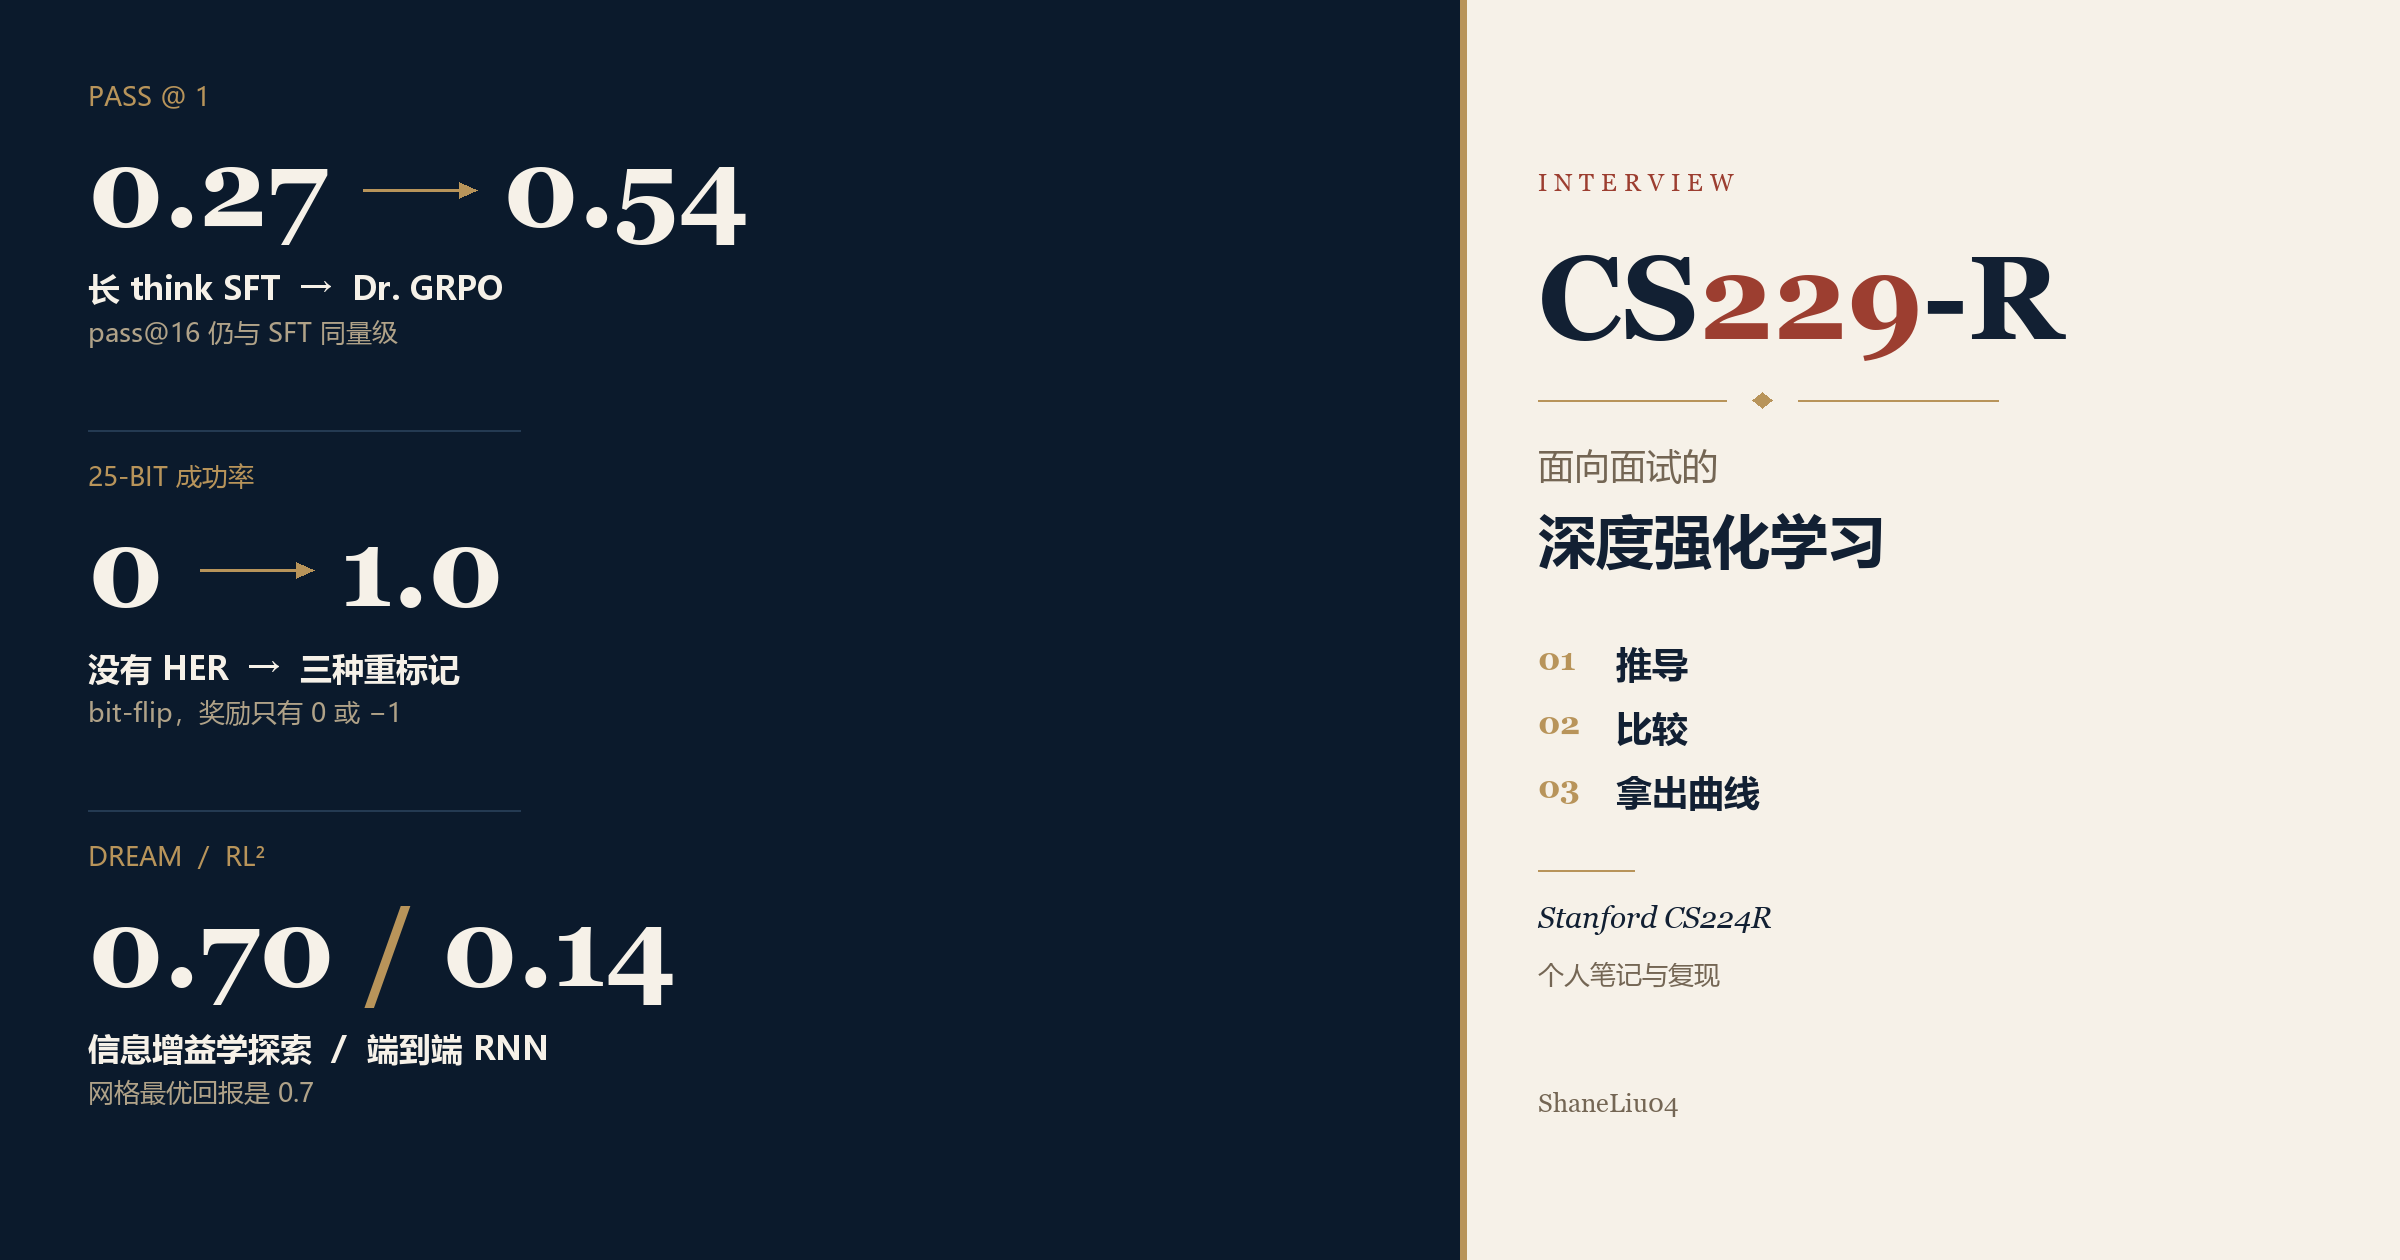
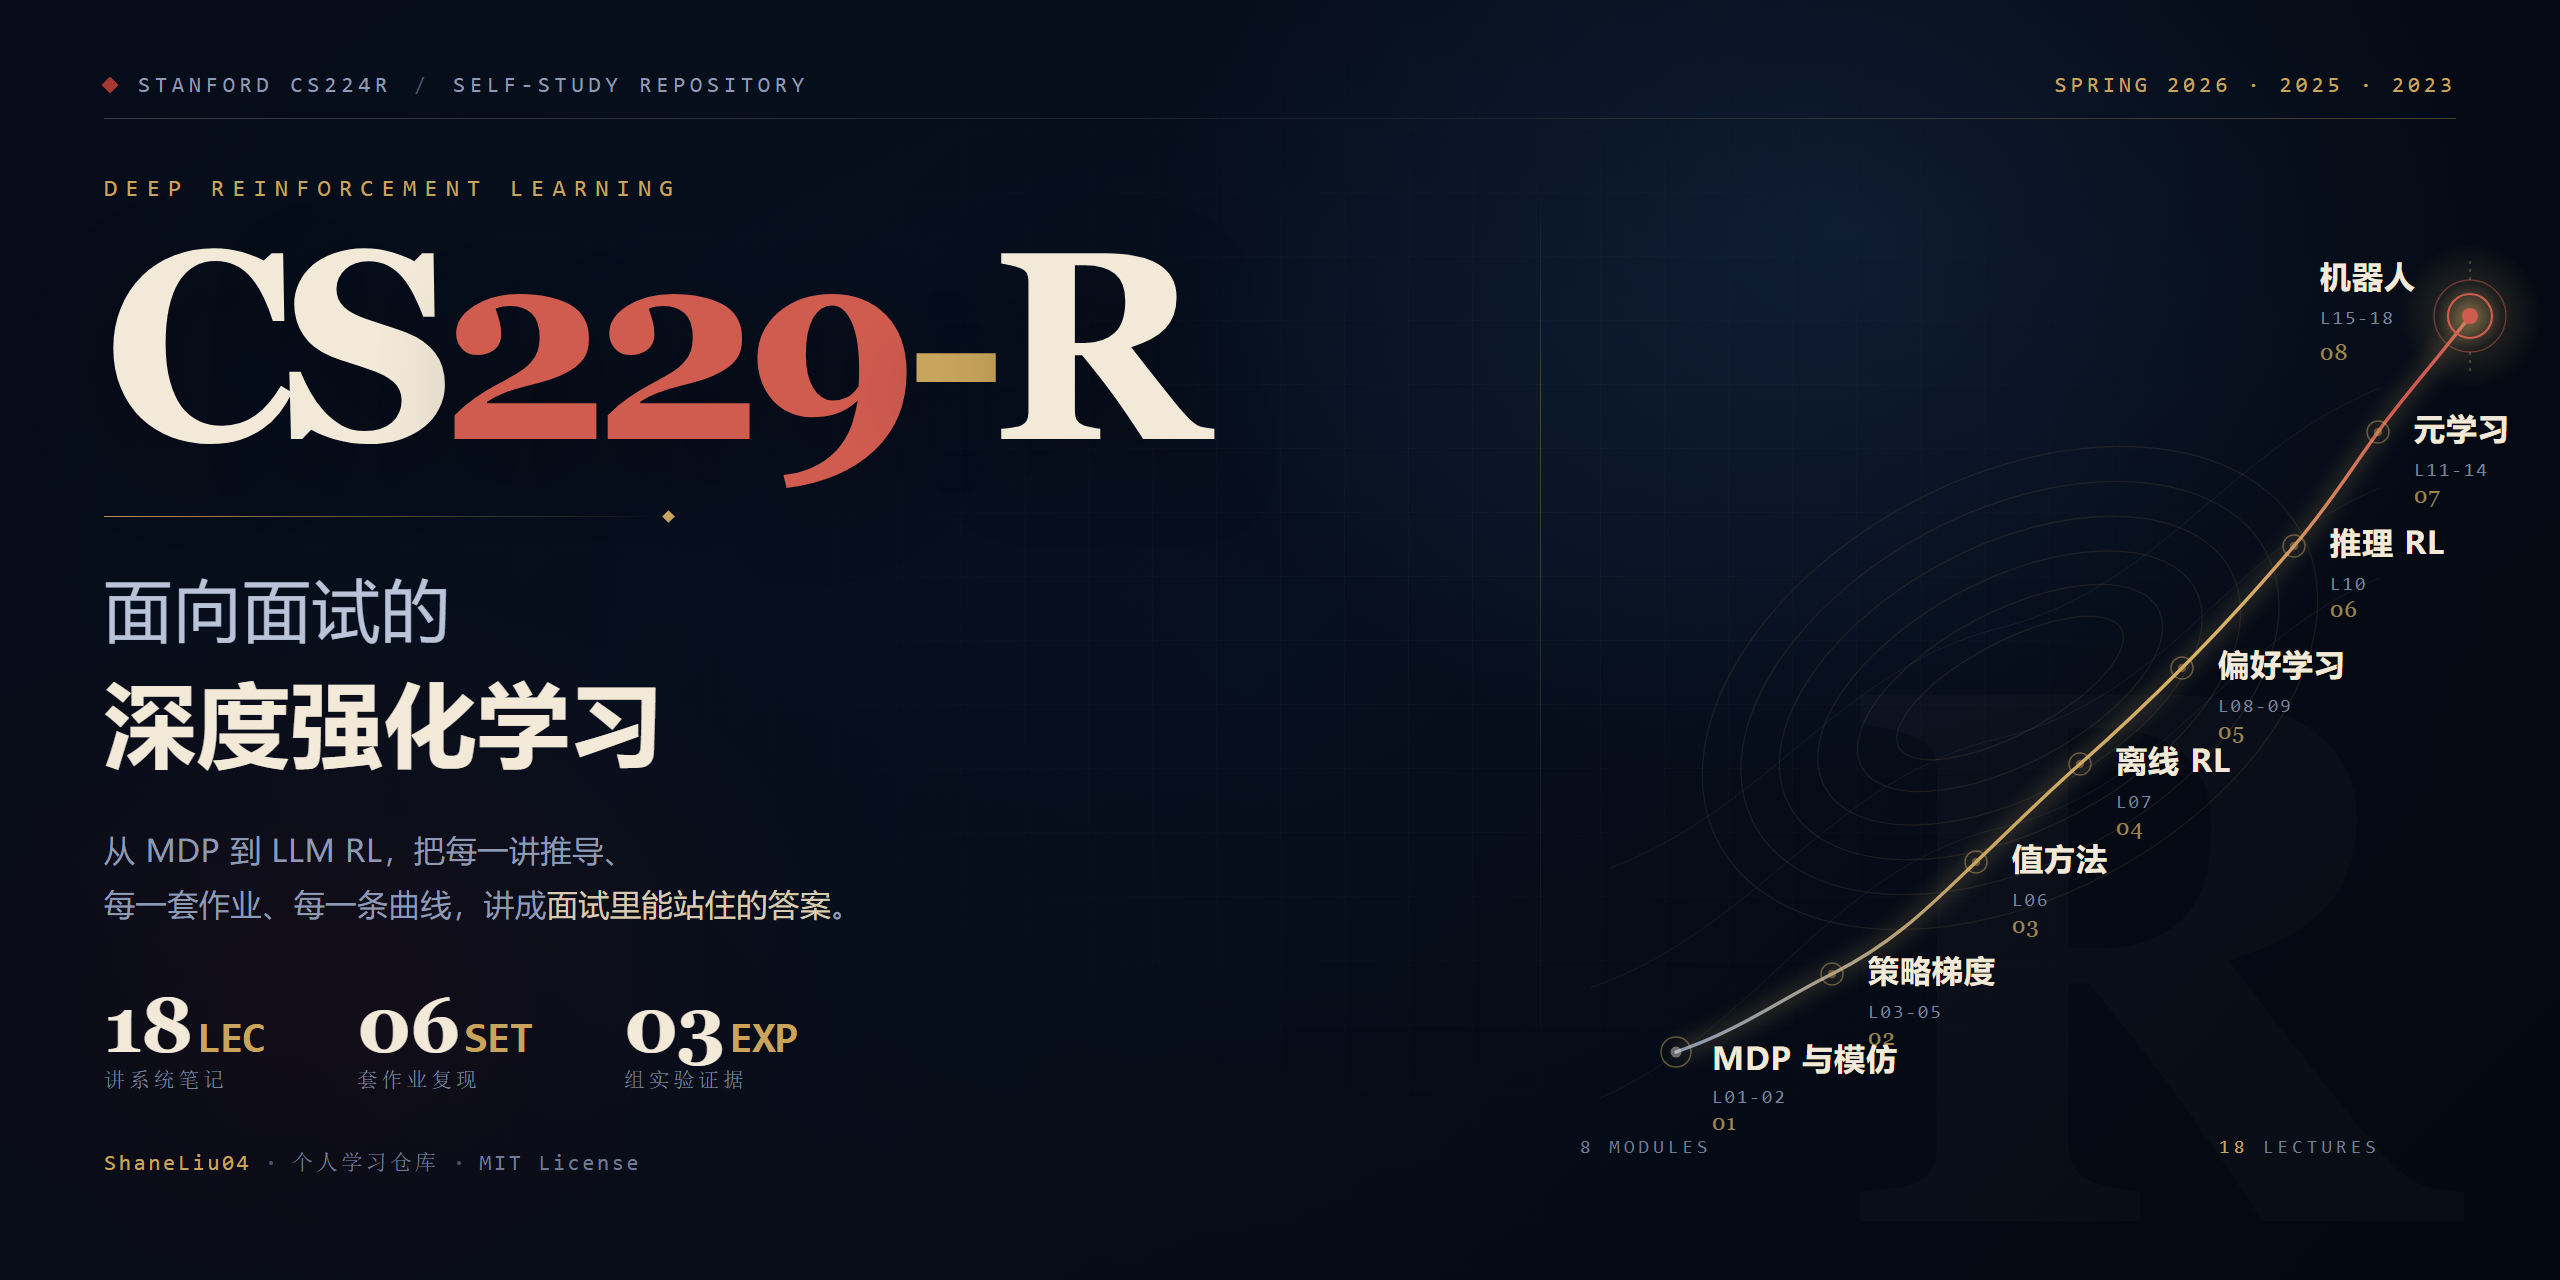
Refresh the repository cover and guard local agent files from publication

diff --git a/README.md b/README.md
@@ -1,6 +1,8 @@
 # CS229-R
 
-![面向面试的深度强化学习](assets/cs229r-cover.png)
+<p align="center">
+  <img src="assets/cs229r-cover.png" alt="CS229-R · 面向面试的深度强化学习" width="100%">
+</p>
 
 面向面试的深度强化学习。笔记、公式和多种子实验只为一件事服务：当场推导，比较算法，把曲线上的数字讲清楚。
 
